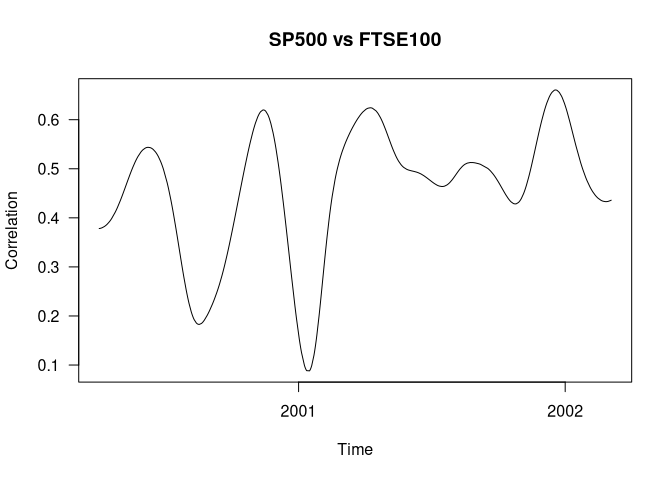
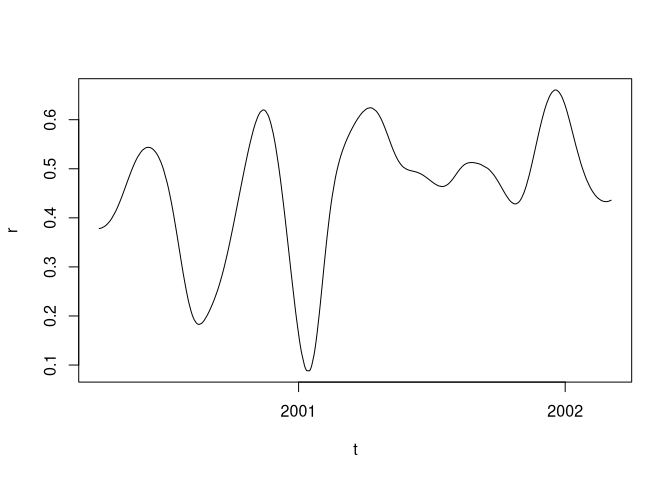
Update README

diff --git a/README.md b/README.md
@@ -11,9 +11,8 @@ experimental](https://img.shields.io/badge/lifecycle-experimental-orange.svg)](h
 status](https://www.r-pkg.org/badges/version/fw)](https://CRAN.R-project.org/package=timevarcorr)
 <!-- badges: end -->
 
-This R package is at a very early stage of development. Some key
-features are missing (e.g. tests) and it has not been thoroughly tested.
-So, please only use at your own risk.
+This R package is at an early stage of development. So, please only use
+at your own risk.
 
 It aims at computing the correlation between 2 time-series following the
 method described in the following paper:
@@ -68,18 +67,18 @@ is available here:
 help(tcor, package = timevarcorr)
 ```
 
-Simple example using base-R syntax:
+Very simple example using base-R syntax:
 
 ``` r
 library(timevarcorr)
 #> timevarcorr loaded; type ?tcor for help on this package.
 
 d <- stockprice[1:500, ]
-test <- with(d, tcor(x = SP500, y = FTSE100, t = DateID, kernel = "normal"))
+example1 <- with(d, tcor(x = SP500, y = FTSE100, t = DateID, kernel = "normal"))
 #> 
 #> You may set `nb.cores` to a number higher than 1 for faster computation.
 #> [1] "h selected using LOO-CV = 60.9"
-plot(test, type = "l", ylab = "Correlation", xlab = "Time", main = "SP500 vs FTSE100", las = 1)
+plot(example1, type = "l")
 ```
 
 <img src="man/figures/README-example-1.png" width="70%" style="display: block; margin: auto;" />
@@ -89,8 +88,7 @@ Same example using tidyverse syntax (with confidence interval):
 ``` r
 library(tidyverse)
 
-stockprice |> 
-  slice(1:500) |>
+d |> 
   summarise(tcor(x = SP500, y = FTSE100, t = DateID, kernel = "normal", CI = TRUE)) |>
   ggplot() +
     aes(x = t, y = r, ymin = lwr, ymax = upr) +
@@ -103,15 +101,14 @@ stockprice |>
 
 <img src="man/figures/README-example2-1.png" width="70%" style="display: block; margin: auto;" />
 
-Alternative using `dplyr::mutate` showing gaps of observations in the
-series:
+Same example showing gaps of observations in the time series:
 
 ``` r
-stockprice |> 
-  slice(1:500) |>
-  mutate(r = tcor(x = SP500, y = FTSE100, t = DateID, kernel = "normal", keep.missing = TRUE)$r) |>
+d |> 
+  summarise(tcor(x = SP500, y = FTSE100, t = DateID, kernel = "normal", CI = TRUE, keep.missing = TRUE)) |>
   ggplot() +
-    aes(x = DateID, y = r) +
+    aes(x = t, y = r, ymin = lwr, ymax = upr) +
+    geom_ribbon(fill = "grey") +
     geom_line() +
     labs(title = "SP500 vs FTSE100", x = "Time", y = "Correlation") +
     theme_classic()
@@ -127,12 +124,25 @@ bandwidth manually, or use the Spearman’s rather than the Pearson’s
 correlation coefficient:
 
 ``` r
-test2 <- with(d, tcor(x = SP500, y = FTSE100, t = DateID,
-                      cor.method = "spearman", kernel = "box", h = 10))
-plot(test2, type = "l", ylab = "Correlation (Spearman)", xlab = "Time", las = 1)
+example2 <- with(d, tcor(x = SP500, y = FTSE100, t = DateID,
+                 cor.method = "spearman", kernel = "box", h = 10))
+plot(example2, type = "l", las = 1)
 ```
 
 <img src="man/figures/README-example4-1.png" width="70%" style="display: block; margin: auto;" />
+
+You can also test the difference in correlation coefficents between two
+time points:
+
+``` r
+example3 <- with(d, tcor(x = SP500, y = FTSE100, t = DateID, kernel = "normal", CI = TRUE))
+#> 
+#> You may set `nb.cores` to a number higher than 1 for faster computation.
+#> [1] "h selected using LOO-CV = 60.9"
+equality_test(example3, t1 = "2000-05-02", t2 = "2001-05-02")
+#>     delta_r SE_delta_r   T_stat df_student pv_student
+#> 1 0.1367507  0.1224749 1.116561        910  0.2644768
+```
 
 ## Devel corner
 
@@ -151,7 +161,7 @@ devtools::session_info()
 #>  collate  en_US.UTF-8
 #>  ctype    en_US.UTF-8
 #>  tz       Europe/Berlin
-#>  date     2022-03-16
+#>  date     2022-03-17
 #>  pandoc   2.14.0.3 @ /usr/libexec/rstudio/bin/pandoc/ (via rmarkdown)
 #> 
 #> ─ Packages ───────────────────────────────────────────────────────────────────
@@ -226,7 +236,7 @@ devtools::session_info()
 #>  tidyr       * 1.2.0      2022-02-01 [2] CRAN (R 4.1.2)
 #>  tidyselect    1.1.1      2021-04-30 [2] CRAN (R 4.1.0)
 #>  tidyverse   * 1.3.1      2021-04-15 [2] CRAN (R 4.1.0)
-#>  timevarcorr * 0.0.0.9002 2022-03-16 [1] local
+#>  timevarcorr * 0.0.0.9003 2022-03-17 [1] local
 #>  tzdb          0.2.0      2021-10-27 [2] CRAN (R 4.1.1)
 #>  usethis       2.1.5      2021-12-09 [2] CRAN (R 4.1.2)
 #>  utf8          1.2.2      2021-07-24 [2] CRAN (R 4.1.0)
